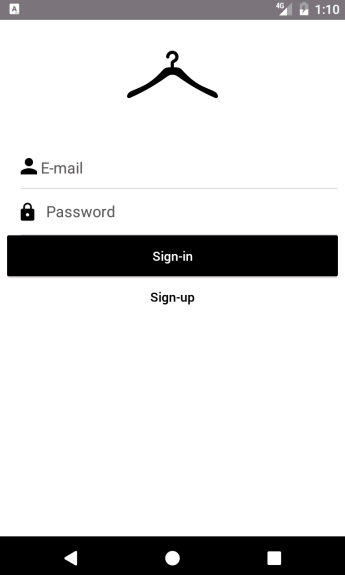
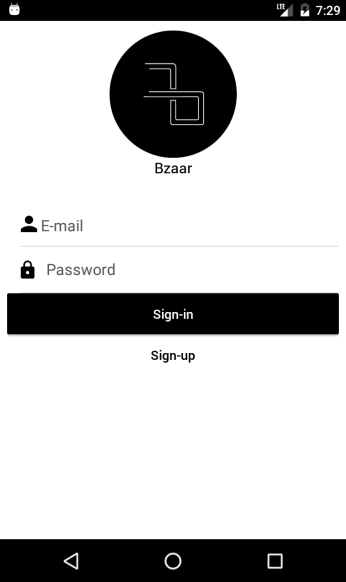
Updated printscreens into readme

Changed region(s): [[0.0, 0.2661, 0.9855, 0.6209], [0.0, 0.0, 1.0, 0.3252], [0.0, 0.9165, 1.0, 1.0]]

diff --git a/README.md b/README.md
@@ -8,3 +8,7 @@ For buyers, they will search and buy your products.
 below, login page.
 
 ![alt login](bzaar-app.png)
+
+And the stores list page.
+
+![alt stores](bzaar-app2.png)
